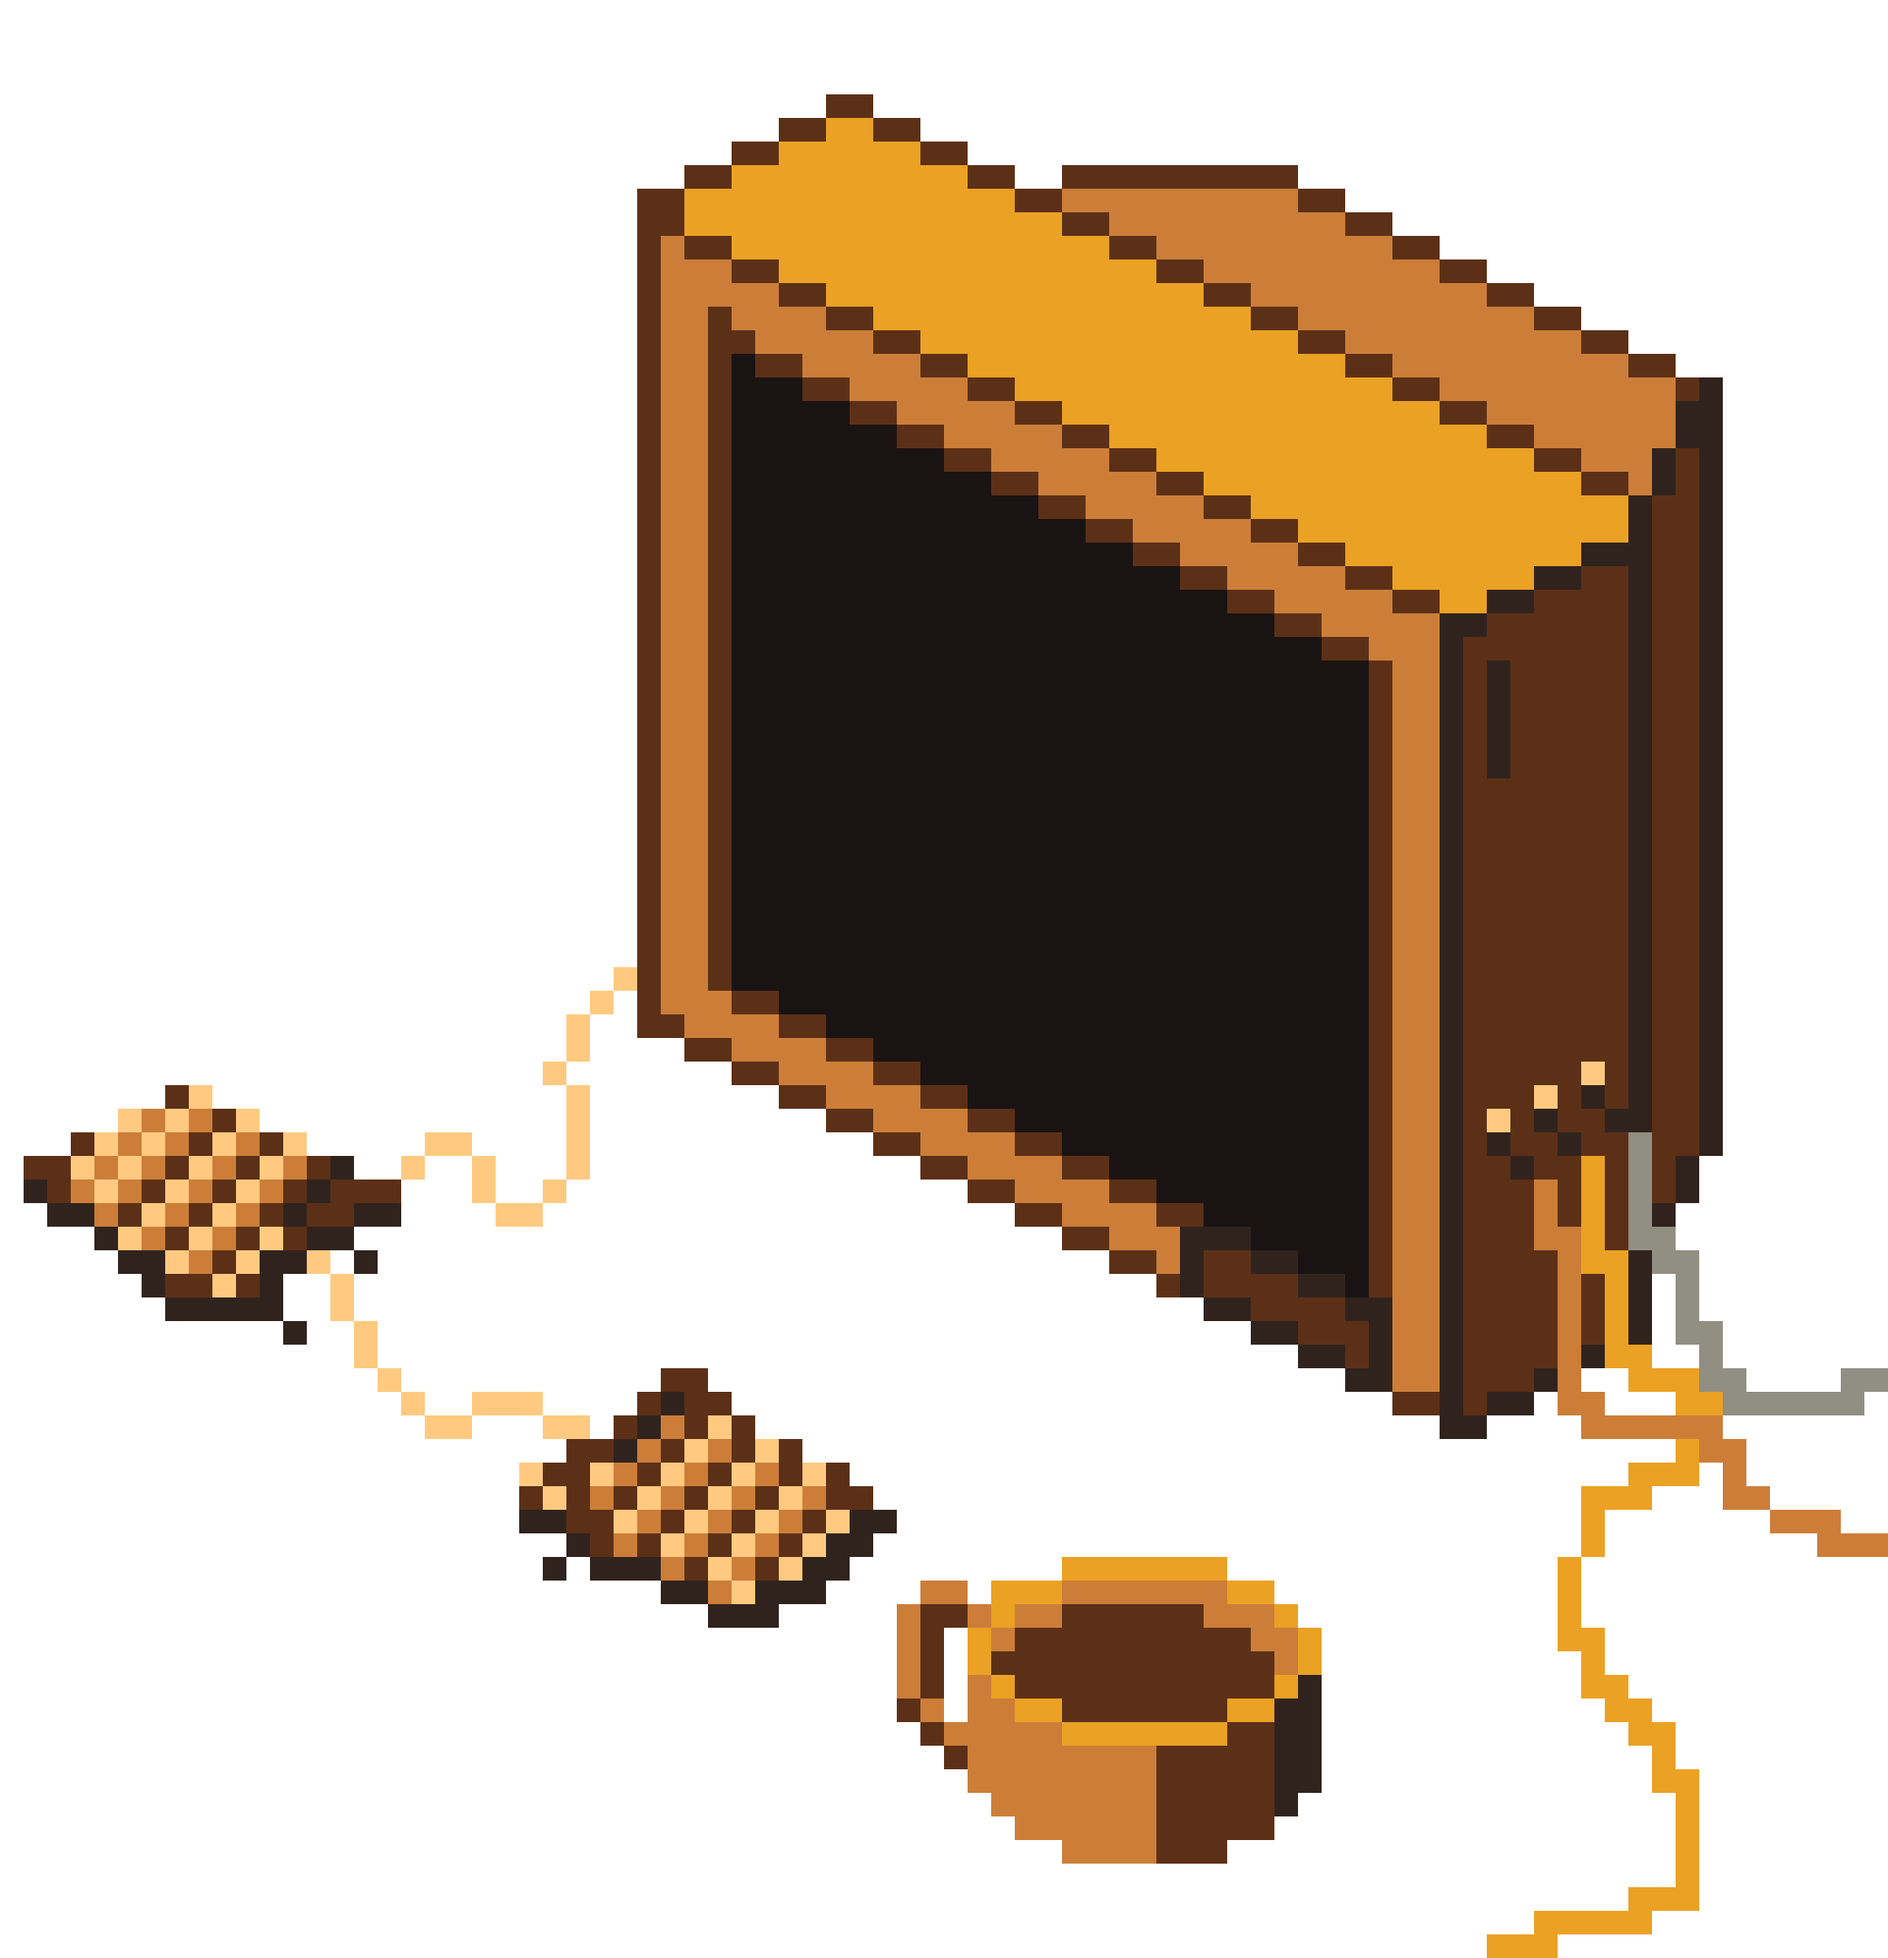
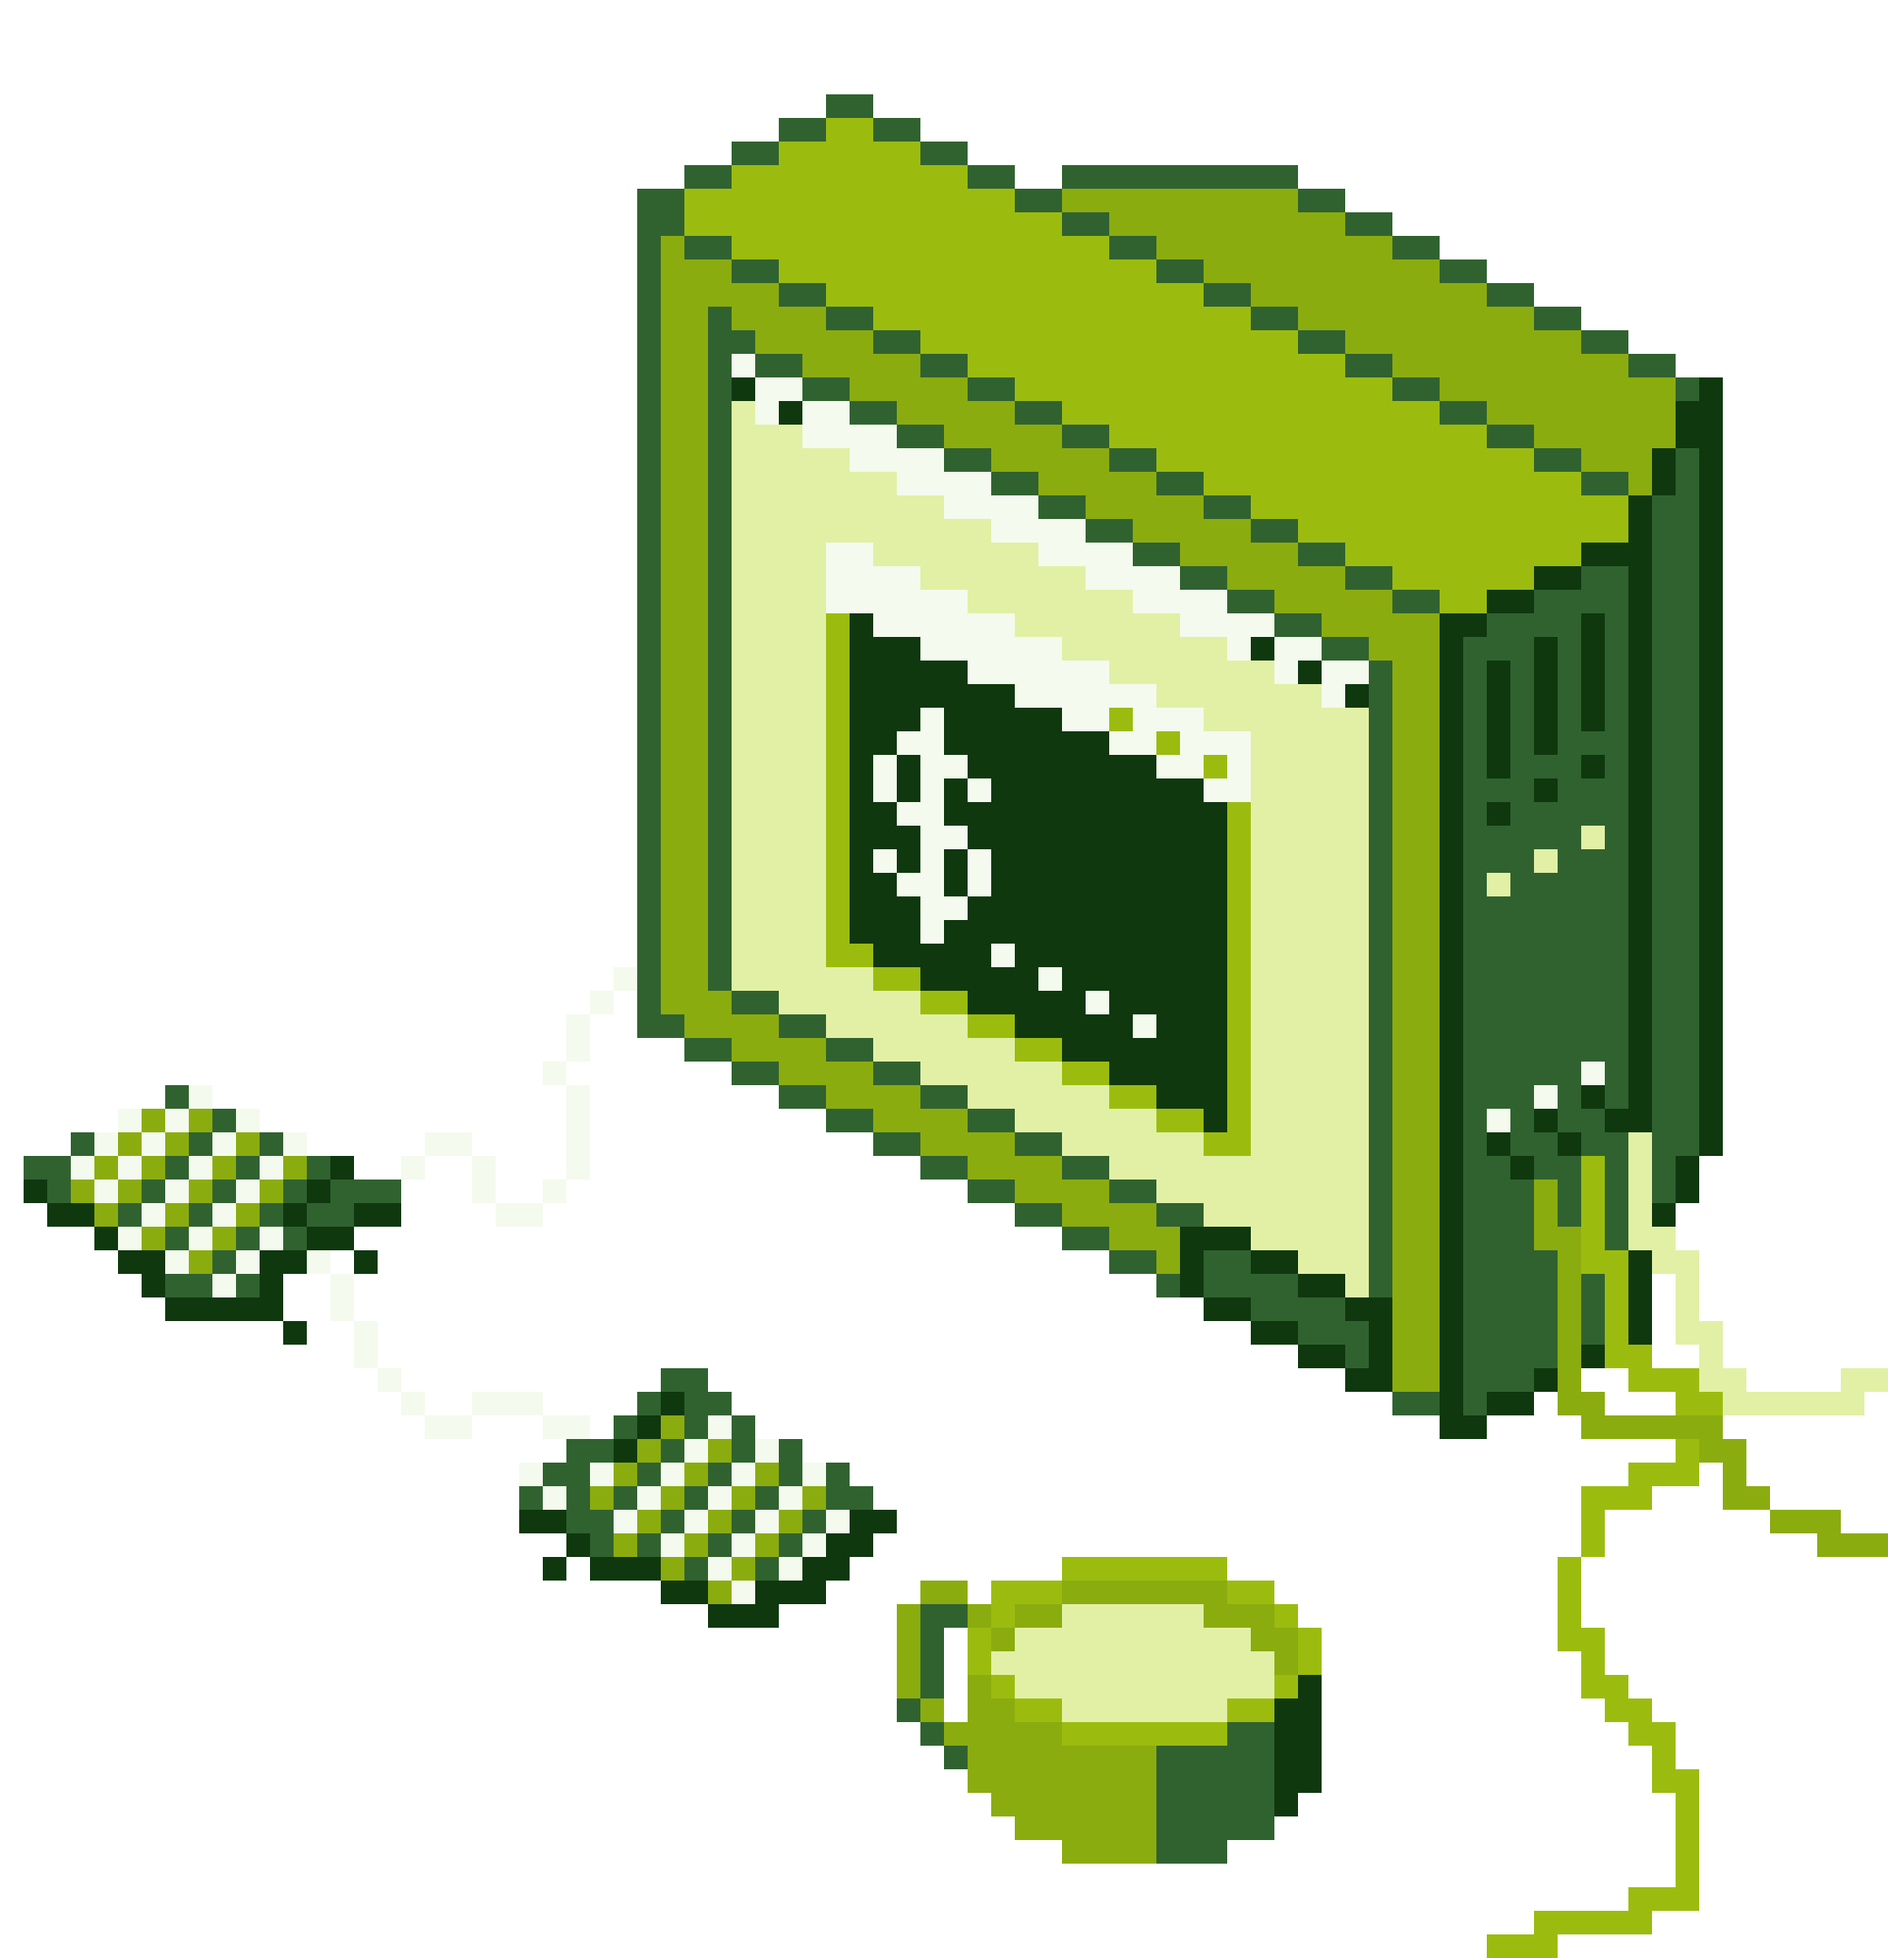
fixup! Updated the art to better match the colour scheme

diff --git a/templates/home.html b/templates/home.html
@@ -4,7 +4,7 @@
 
 <main>
   <img
-    src="/images/home_art.png"
+    src="/images/home_art-export.png"
     alt="pixel art of a computer, a keyboard, and a large cup of tea."
     class="home-art"
     width="250"
